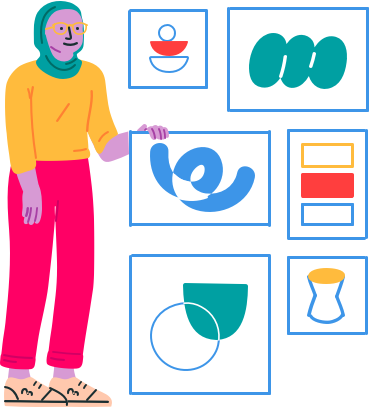
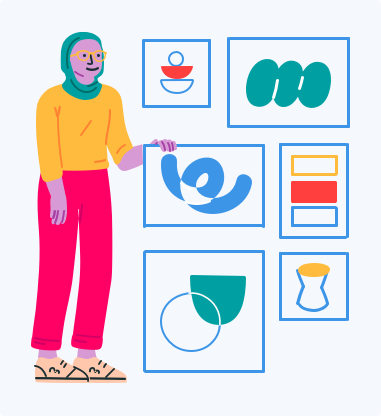
quickfix

diff --git a/index.html b/index.html
@@ -63,8 +63,8 @@
 </header> -->
 
 <!-- chimp to charitable impact -->
-  <div id="change" class="section">
-      <div class="global-container hideme">
+  <div id="change" class="section hideme">
+      <div class="global-container">
         <div class="col-xs-12 change-margin">
           <div class="row">
             <div class="col-xs-12 col-sm-5 col-lg-6 order-sm-2 d-none d-sm-block">
@@ -82,8 +82,8 @@
     </div>
 
 <!-- 3 column video -->
-  <div class="global-container hideme">
-      <div class="row hideme">
+  <div class="global-container">
+      <div class="row">
         <div class="col-sm-4 mt-0 pd-0 order-md-2">
           <video autoplay loop muted width="100%">
             <source src="image/BP_type.mp4" type="video/mp4">
@@ -103,7 +103,7 @@
     </div>
 
 <!-- Type -->
-  <div class="hideme">
+  <div class="">
       <div class="global-container">
         <div class="row">
           <div class="col-md-12 type-margin">
@@ -120,7 +120,7 @@
     </div>
 
 <!-- Type Container-->
-  <div class="type-section hideme">
+  <div class="type-section">
       <div class="type-container col-md-11">
         <!-- type-nav -->
         <div class="type-nav">
@@ -142,7 +142,7 @@
           </div>
         </div>
         <!-- Type -->
-        <div class="type-expand-container hideme">
+        <div class="type-expand-container">
           <div class="row">
             <div class="col-md-10">
               <div id="bold" class="collapse show multi-collapse">
@@ -178,7 +178,7 @@
     </div>
 
 <!-- Video -->
-  <div class="global-container hideme">
+  <div class="global-container">
     <div class="row pd-0 mt-0">
       <div class="col-md-6 mt-0 pd-0">
           <video autoplay loop muted width="100%">
@@ -199,7 +199,7 @@
   </div>
 
 <!-- Color -->
-  <div class="section colour-margin hideme">
+  <div class="section colour-margin">
     <div class="global-container">
       <div class="row justify-content-md-center colour-content">
         <div class="col-md-9 text-center">
@@ -254,7 +254,7 @@
   </div>
 
 <!-- Website -->
-  <div id="website-section hideme">
+  <div id="website-section">
     <div class="global-container">
       <div class="row">
         <div class="col-md-8 col-lg-6">
@@ -280,7 +280,7 @@
 
 
 <!-- Carousel -->
-  <div id="photo-slider hideme">
+  <div id="photo-slider">
     <div id="carouselExampleIndicators" class="carousel slide" data-ride="carousel">
       <ol class="carousel-indicators">
         <li data-target="#carouselExampleIndicators" data-slide-to="0" class="active"></li>
@@ -310,7 +310,7 @@
   </div>
 
 <!-- Motion -->
-  <div class="motion-section global-container hideme">
+  <div class="motion-section global-container">
     <div class="margin-section">
       <div class="motion-content">
         <div class="row">
@@ -325,81 +325,81 @@
           </div>
         </div>
       </div>
-      <div class="row">
-        <div class="col-xs-4">
-          <video autoplay loop muted width="100%">
-          <source src="image/instagram-1.mp4" type="video/mp4">
-          </video>
-        </div>
-        <div class="col-xs-4">
-          <video autoplay loop muted width="100%">
-          <source src="image/instagram-3.mp4" type="video/mp4">
-          </video>
-        </div>
-        <div class="col-xs-4">
-          <video autoplay loop muted width="100%">
-          <source src="image/instagram-2.mp4" type="video/mp4">
-          </video>
+      <div class="row justify-content-lg-center">
+        <div class="col-md-10">
+          <div class="col-xs-4">
+            <video autoplay loop muted width="100%">
+            <source src="image/instagram-1.mp4" type="video/mp4">
+            </video>
+          </div>
+          <div class="col-xs-4">
+            <video autoplay loop muted width="100%">
+            <source src="image/instagram-3.mp4" type="video/mp4">
+            </video>
+          </div>
+          <div class="col-xs-4">
+            <video autoplay loop muted width="100%">
+            <source src="image/instagram-2.mp4" type="video/mp4">
+            </video>
+          </div>
         </div>
       </div>
     </div>
   </div>
 
-<section class="illustration-section hideme">
+<section class="illustration-section">
   <div class="global-container">
-    <div class="row">
-      <div class="col-md-5 offset-md-1 order-md-1">
-        <h2 class="rebrand-header mt-0">Working in inclusivity</h1>
-        <span class="">To do our best to further include racial and cultural diversity, we explored a range of physical features — hairstyle, facial features, clothing, etc.</p>
-      </div>
-      <div class="col-xs-12 col-md-5 illustration-heads order-md-2">
-        <div class="row">
-          <div class="col-xs-4">
-            <div class="head-1">
-            </div>
-            <!-- <img src="image/head-1.png"> -->
-          </div>
-          <div class="col-xs-4">
-            <div class="head-2">
-            </div>
-            <!-- <img src="image/head-2.png"> -->
-          </div>
-          <div class="col-xs-4">
-            <div class="head-3">
-            </div>
-            <!-- <img src="image/head-3.png"> -->
-          </div>
+    <div class="col-md-12">
+      <div class="row">
+        <div class="col-md-5 offset-md-1 order-md-1 illustration-content">
+          <h2 class="rebrand-header">Working in inclusivity</h1>
+          <p>To do our best to further include racial and cultural diversity, we explored a range of physical features — hairstyle, facial features, clothing, etc.</p>
         </div>
-        <div class="row">
-          <div class="col-xs-4">
-            <div class="head-4">
+        <div class="col-xs-12 col-md-5 illustration-heads order-md-2">
+          <div class="row">
+            <div class="col-xs-4">
+              <div class="head-1">
+              </div>
             </div>
-            <!-- <img src="image/head-4.png"> -->
+            <div class="col-xs-4">
+              <div class="head-2">
+              </div>
+            </div>
+            <div class="col-xs-4">
+              <div class="head-3">
+              </div>
+            </div>
           </div>
-          <div class="col-xs-4">
-            <div class="head-5">
+          <div class="row">
+            <div class="col-xs-4">
+              <div class="head-4">
+              </div>
             </div>
-            <!-- <img src="image/head-5.png"> -->
-          </div>
-          <div class="col-xs-4">
-            <div class="head-6">
+            <div class="col-xs-4">
+              <div class="head-5">
+              </div>
             </div>
-            <!-- <img src="image/head-6.png"> -->
+            <div class="col-xs-4">
+              <div class="head-6">
+              </div>
+            </div>
           </div>
         </div>
       </div>
     </div>
-    <div class="row illustration-margin">
-      <div class="col-xs-12 col-md-4">
-        <img src="image/illustration-1.png">
+
+      <div class="row illustration-margin">
+        <div class="col-sm-4">
+          <img src="image/illustration-1.png">
+        </div>
+        <div class="col-sm-4">
+          <img src="image/illustration-2.png">
+        </div>
+        <div class="col-sm-4">
+          <img src="image/illustration-3.png">
+        </div>
       </div>
-      <div class="col-xs-6 col-col-md-4">
-        <img src="image/illustration-2.png">
-      </div>
-      <div class="col-xs-6 col-md-4">
-        <img src="image/illustration-3.png">
-      </div>
-    </div>
+
   </div>
 </section>
 

diff --git a/css/global.css b/css/global.css
@@ -412,16 +412,23 @@ to   { opacity: 1; }
   margin-top: 100px;
 }
 
+.illustration-content {
+
+}
+
 .illustration-margin img{
-  max-height: 500px;
-  width: auto;
-  margin: 0 auto;
+  /* max-height: 500px; */
+  width: 100%;
+  margin-bottom: 20px;
+    /* margin-left: 15px;
+    margin-right: 15px; */
+  /* max-height: 500px; */
 }
 
 
 .pins {
   background-color: #0E0F28;
-  padding: 120px 0 80px 0;
+  margin: 120px 0 80px 0;
 }
 
 .hideme {
@@ -457,7 +464,7 @@ header video {
 }
 
 .head-1 {
-  width: 175px;
+  width: 100%;
   height: 160px;
   background-size: contain;
   background-repeat: no-repeat;
@@ -469,7 +476,7 @@ header video {
 }
 
 .head-2 {
-  width: 175px;
+  width: 100%;
   height: 160px;
   background-size: contain;
   background-repeat: no-repeat;
@@ -481,7 +488,7 @@ header video {
 }
 
 .head-3 {
-  width: 175px;
+  width: 100%;
   height: 160px;
   background-size: contain;
   background-repeat: no-repeat;
@@ -493,7 +500,7 @@ header video {
 }
 
 .head-4 {
-  width: 175px;
+  width: 100%;
   height: 160px;
   background-size: contain;
   background-repeat: no-repeat;
@@ -505,7 +512,7 @@ header video {
 }
 
 .head-5 {
-  width: 175px;
+  width: 100%;
   height: 160px;
   background-size: contain;
   background-repeat: no-repeat;
@@ -517,7 +524,7 @@ header video {
 }
 
 .head-6 {
-  width: 175px;
+  width: 100%;
   height: 160px;
   background-size: contain;
   background-repeat: no-repeat;
